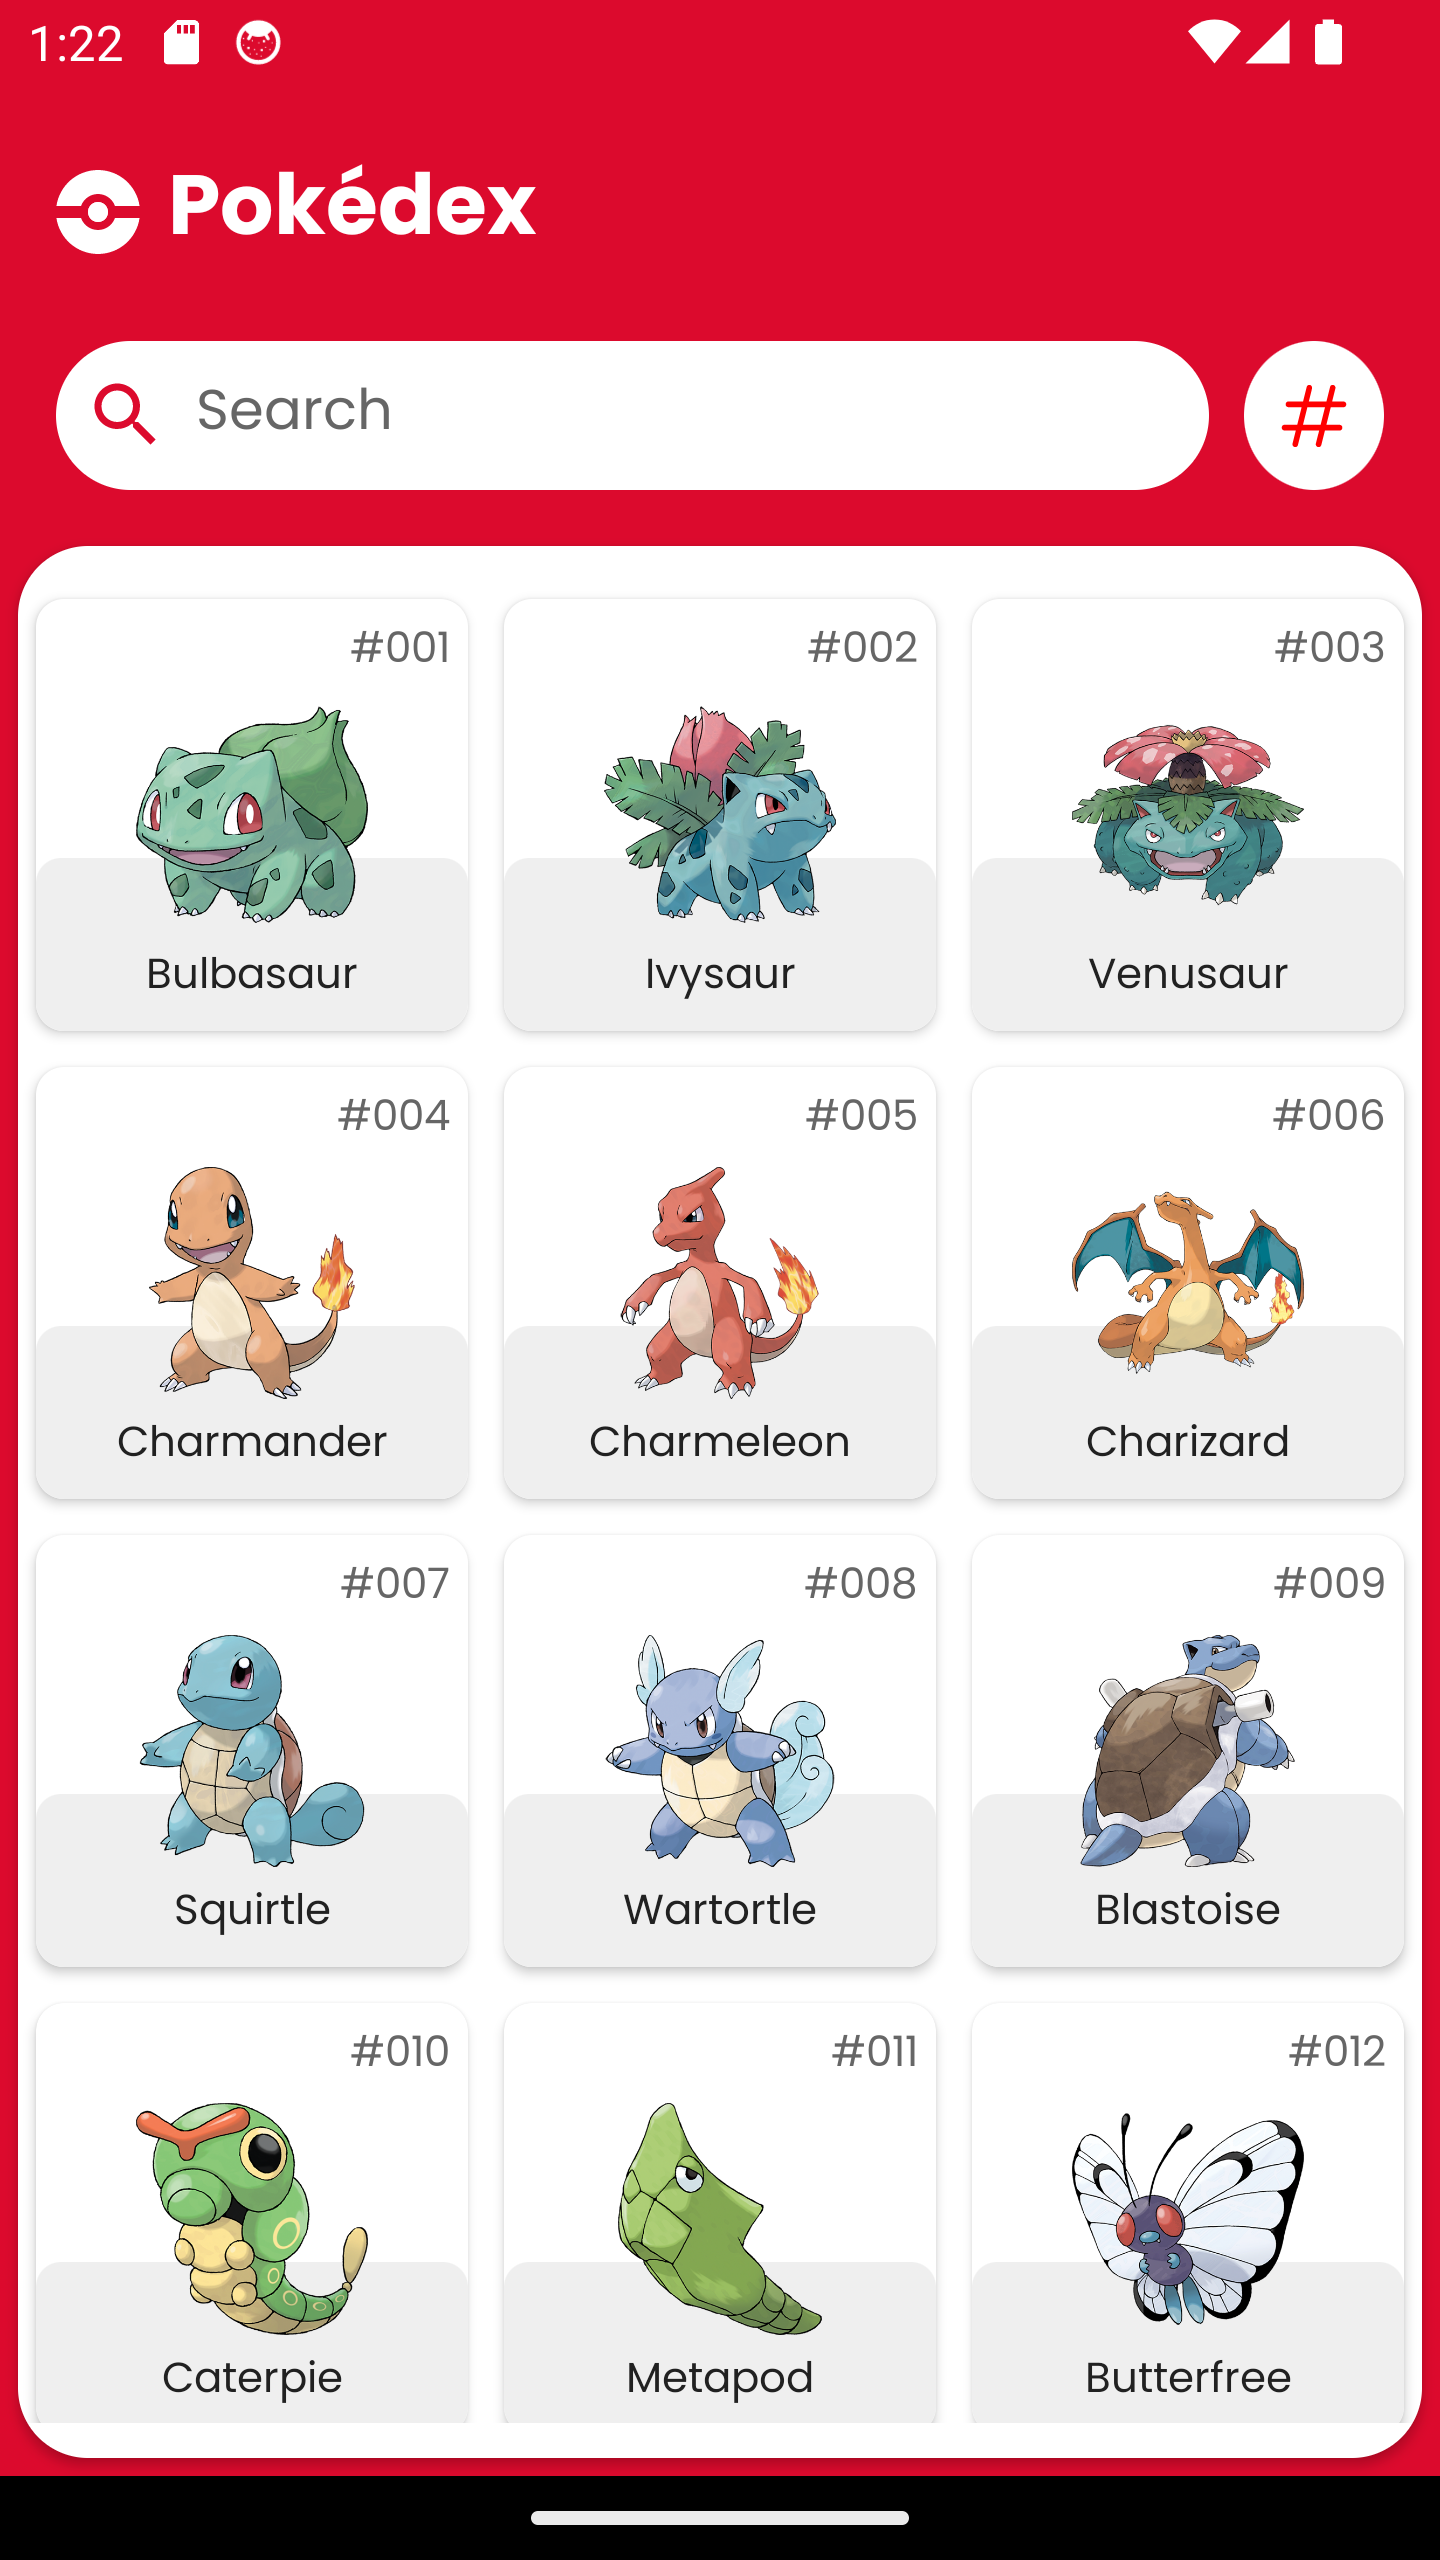
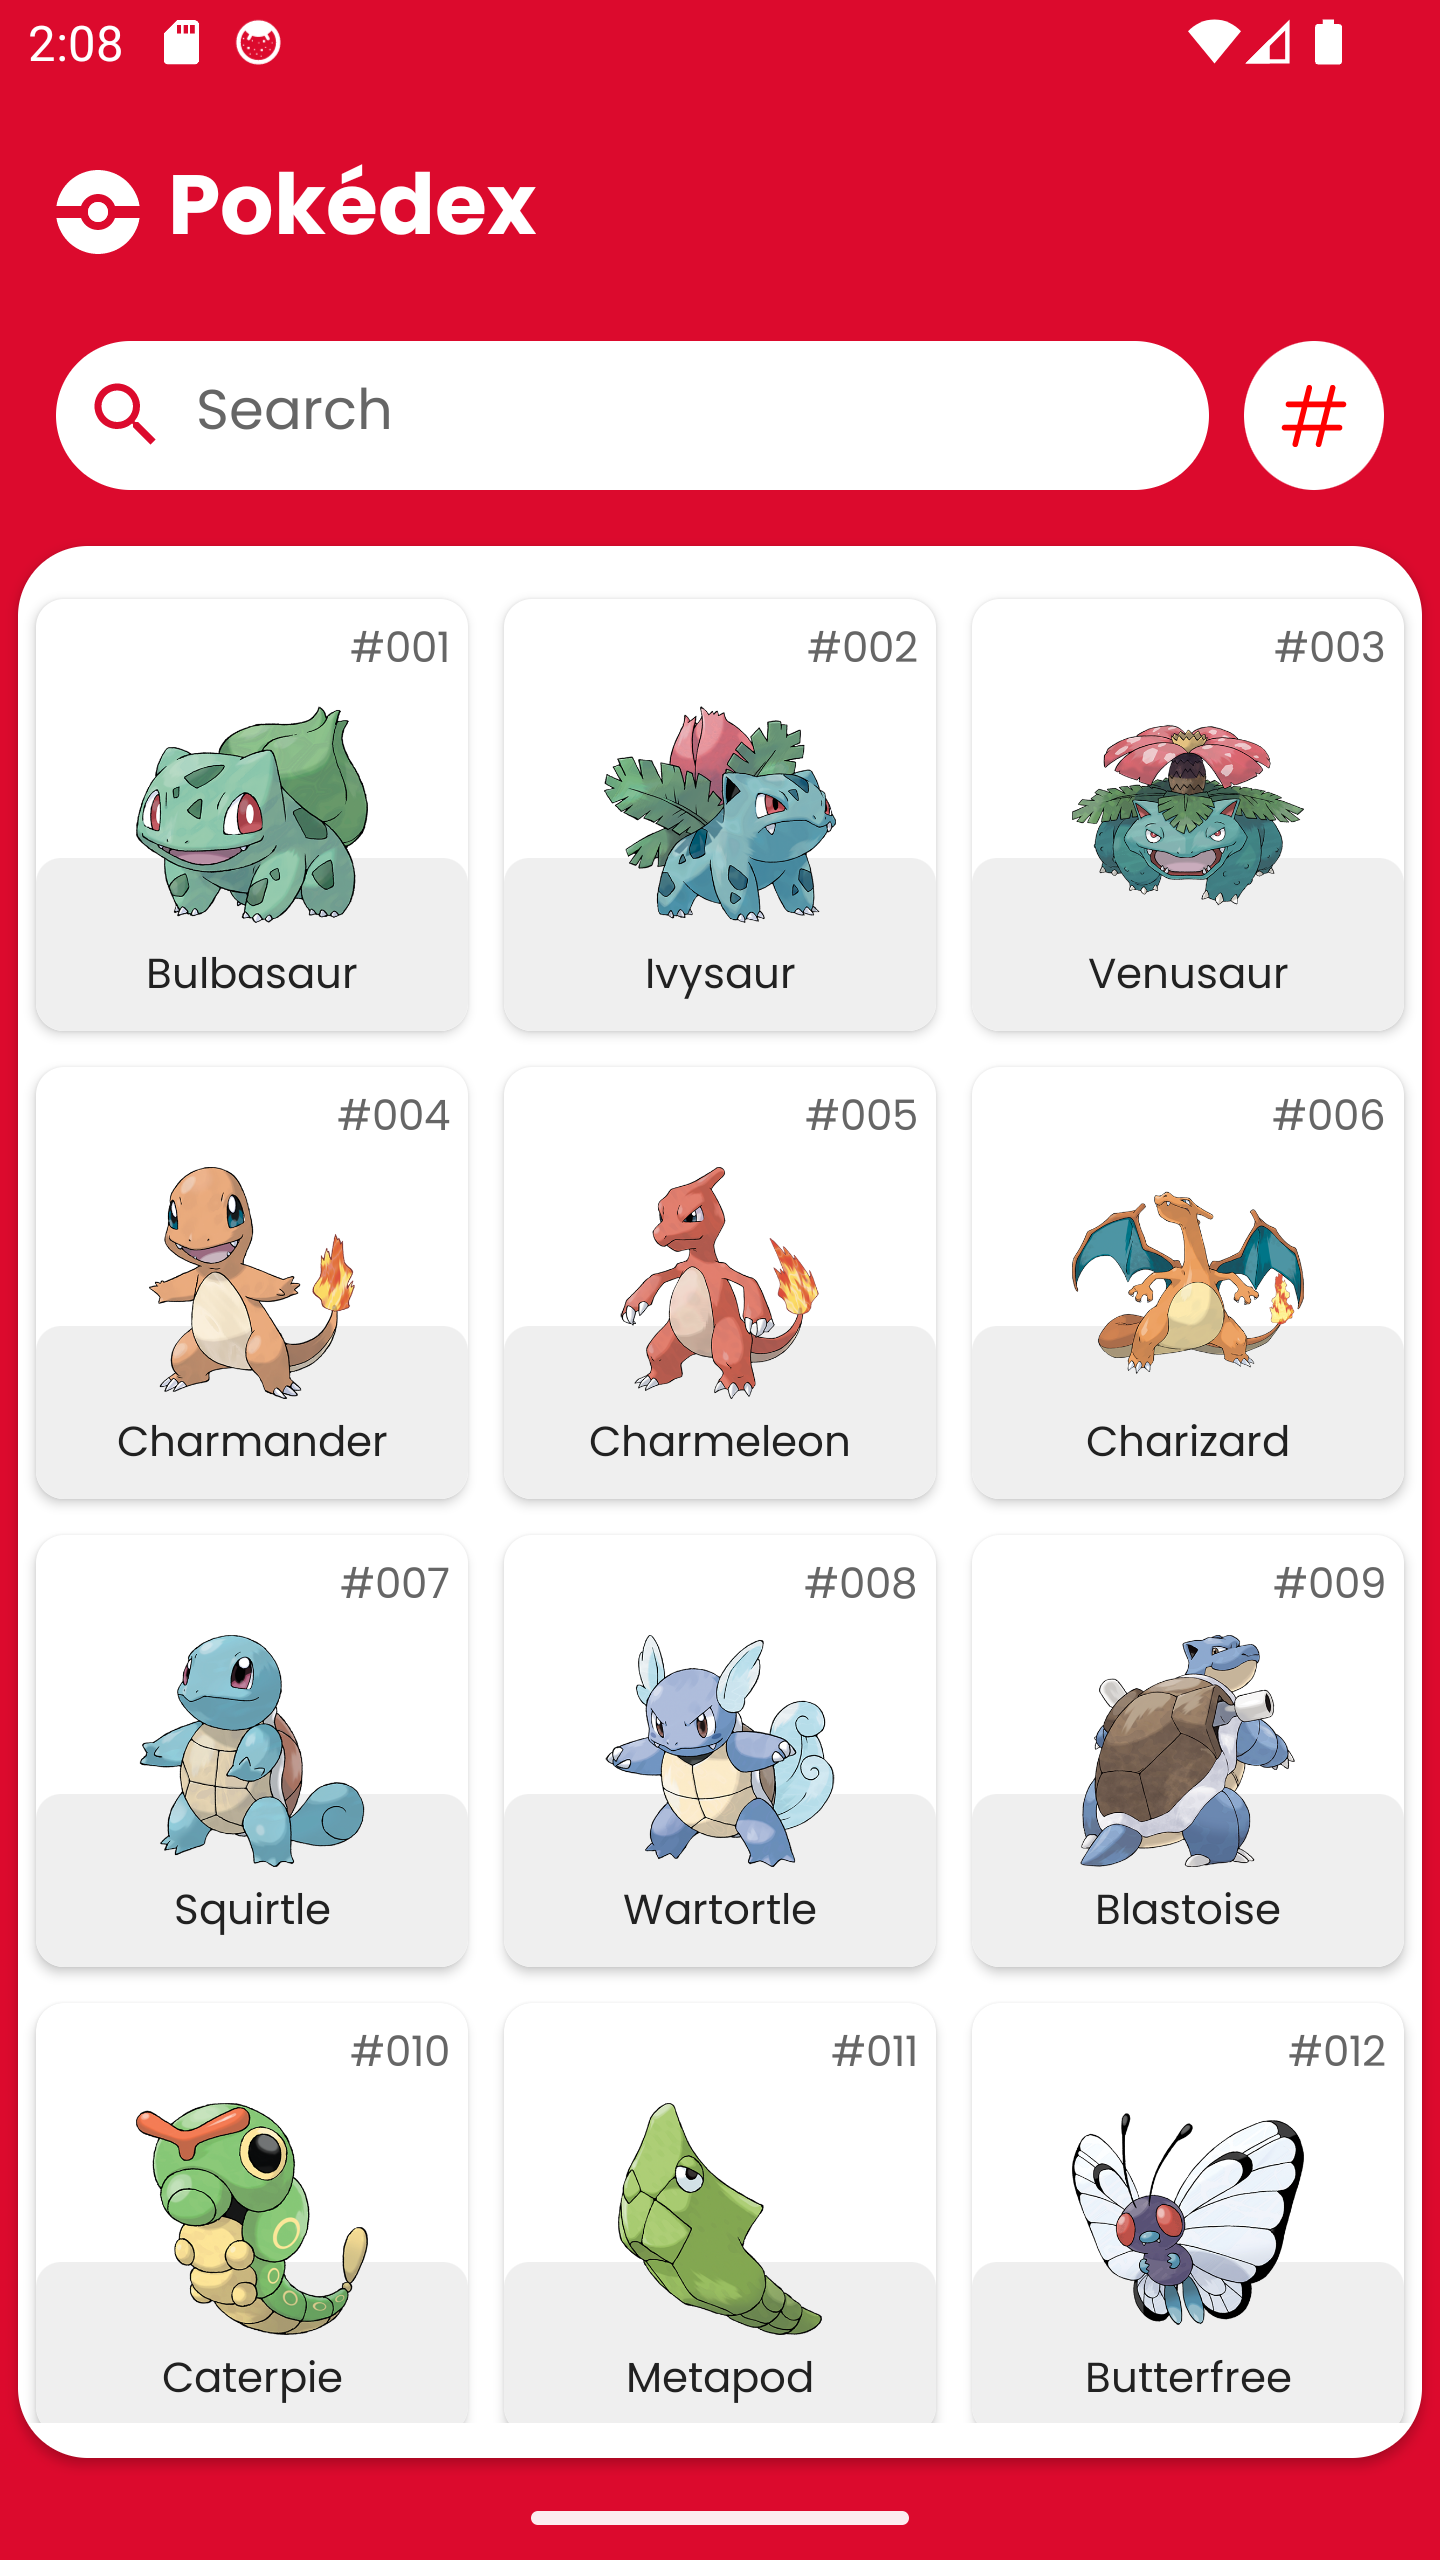
update

Changed region(s): [[0.0, 0.9688, 1.0, 1.0], [0.0312, 0.0, 0.0938, 0.0312], [0.875, 0.0, 0.9062, 0.0312]]

diff --git a/app/src/test/java/com/example/pazaramapokemonapp/presentation/PokemonDetailViewModelTest.kt b/app/src/test/java/com/example/pazaramapokemonapp/presentation/PokemonDetailViewModelTest.kt
@@ -59,7 +59,7 @@ class PokemonDetailViewModelTest {
     }
 
     @Test
-    fun whenViewModelInit_getMoviesDetailReturnFalse_updateState() = runTest {
+    fun whenViewModelInit_getPokemonDetailReturnFalse_updateState() = runTest {
         pokemonRepository.isReturnNetworkError = true
         viewModel.uiState.test {
             val uiState = awaitItem()
@@ -70,20 +70,5 @@ class PokemonDetailViewModelTest {
             assertThat(uiState2.errorMessage).isNotNull()
         }
     }
-
-    /*@Test
-    fun whenViewModelInit_getMoviesDetailReturnSuccess_updateState() = runTest {
-        viewModel.uiState.test {
-            val uiState = awaitItem()
-            assertThat(uiState.isLoading).isTrue()
-            advanceUntilIdle()
-            val uiState2 = awaitItem()
-            assertThat(uiState2.isLoading).isFalse()
-            assertThat(uiState2.pokemonDetail).isNotNull()
-            assertThat(uiState2.errorMessage).isNull()
-            assertThat(uiState2.pokemonSpecie).isNull()
-
-        }
-    }*/
 
 }

diff --git a/app/src/main/java/com/example/pazaramapokemonapp/presentation/home/adapter/PokemonListAdapter.kt b/app/src/main/java/com/example/pazaramapokemonapp/presentation/home/adapter/PokemonListAdapter.kt
@@ -12,7 +12,7 @@ import com.example.pazaramapokemonapp.presentation.home.HomeUiState
 
 class PokemonListAdapter(
     private val listener: Listener
-) : ListAdapter<Pokemon, PokemonListAdapter.PokemonListViewHolder>(MovieDiffUtil()) {
+) : ListAdapter<Pokemon, PokemonListAdapter.PokemonListViewHolder>(PokemonDiffUtil()) {
 
     interface Listener {
         fun onItemClick(pokemonId: Int, pokemonName: String, pokemonImageUrl: String)
@@ -68,7 +68,7 @@ class PokemonListAdapter(
     }
 }
 
-private class MovieDiffUtil : DiffUtil.ItemCallback<Pokemon>() {
+private class PokemonDiffUtil : DiffUtil.ItemCallback<Pokemon>() {
     override fun areItemsTheSame(oldItem: Pokemon, newItem: Pokemon): Boolean {
         return oldItem.name == newItem.name
     }

diff --git a/app/src/main/java/com/example/pazaramapokemonapp/presentation/home/HomeFragment.kt b/app/src/main/java/com/example/pazaramapokemonapp/presentation/home/HomeFragment.kt
@@ -43,6 +43,7 @@ class HomeFragment : Fragment(), PokemonListAdapter.Listener {
 
     override fun onViewCreated(view: View, savedInstanceState: Bundle?) {
         super.onViewCreated(view, savedInstanceState)
+        requireActivity().window.navigationBarColor = ContextCompat.getColor(requireContext(), R.color.primary)
         pokemonListAdapter = PokemonListAdapter(this)
         binding.recyclerView.adapter = pokemonListAdapter
         binding.recyclerView.layoutManager = GridLayoutManager(requireContext(), 3)

diff --git a/app/src/test/java/com/example/pazaramapokemonapp/presentation/HomeViewModelTest.kt b/app/src/test/java/com/example/pazaramapokemonapp/presentation/HomeViewModelTest.kt
@@ -48,7 +48,7 @@ class HomeViewModelTest {
     }
 
     @Test
-    fun whenViewModelInit_getPokemonsReturnFalse_shouldReturnListOfMovies() = runTest {
+    fun whenViewModelInit_getPokemonsReturnFalse_shouldReturnListOfPokemons() = runTest {
         pokemonRepository.isReturnNetworkError = true
         viewModel.uiState.test {
             val uiState = awaitItem()

diff --git a/app/src/main/java/com/example/pazaramapokemonapp/data/di/AppModule.kt b/app/src/main/java/com/example/pazaramapokemonapp/data/di/AppModule.kt
@@ -41,7 +41,7 @@ object AppModule {
 
     @Provides
     @Singleton
-    fun provideMovieRepository(
+    fun providePokemonRepository(
         pokemonApi: PokemonApi
     ): PokemonRepository {
         return PokemonRepositoryImpl(pokemonApi)

diff --git a/README.md b/README.md
@@ -33,6 +33,6 @@
 
 ## Screenshots
 
-| Main Screen | Details Screen | Details Screen |
-| ----------- | ---------------- | ---------------- |
-| ![Main Screen](https://github.com/KaanBN/PazaramaPokemonApp/blob/master/Assets/home_screen.png) | ![Favourite Screen](https://github.com/KaanBN/PazaramaPokemonApp/blob/master/Assets/detail_screen_1.png) | ![Favourite Screen](https://github.com/KaanBN/PazaramaPokemonApp/blob/master/Assets/detail_screen_2.png)
+| Main Screen                                                                                     | Details Screen                                                                                           | Details Screen                                                                                           |
+|-------------------------------------------------------------------------------------------------|----------------------------------------------------------------------------------------------------------|----------------------------------------------------------------------------------------------------------|
+| ![Main Screen](https://github.com/KaanBN/PazaramaPokemonApp/blob/master/Assets/home_screen.png) | ![Favourite Screen](https://github.com/KaanBN/PazaramaPokemonApp/blob/master/Assets/detail_screen_1.png) | ![Favourite Screen](https://github.com/KaanBN/PazaramaPokemonApp/blob/master/Assets/detail_screen_2.png) |
